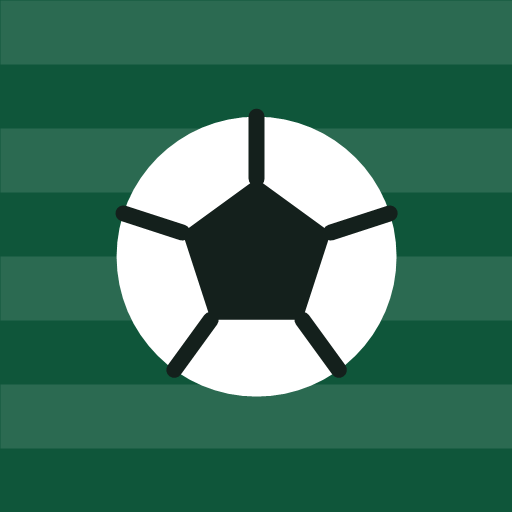
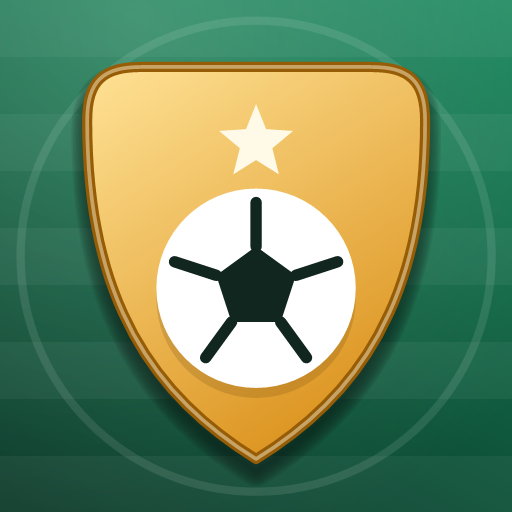
حدّث بطل: شعار الدرع، شاشات إقلاع، وتلميع الواجهة

diff --git a/batal/index.html b/batal/index.html
@@ -10,7 +10,18 @@
 <meta name="apple-mobile-web-app-status-bar-style" content="black-translucent">
 <meta name="apple-mobile-web-app-title" content="بطل">
 <link rel="manifest" href="manifest.json">
-<link rel="apple-touch-icon" href="icon.png">
+<link rel="icon" type="image/png" sizes="512x512" href="icon-512.png">
+<link rel="icon" type="image/png" sizes="192x192" href="icon-192.png">
+<link rel="apple-touch-icon" sizes="180x180" href="icon-180.png">
+<!-- شاشة إقلاع للآيفون: بدل الوميض الأبيض يظهر شعار التطبيق -->
+<link rel="apple-touch-startup-image" href="splash-1290x2796.png" media="(device-width:430px) and (device-height:932px) and (-webkit-device-pixel-ratio:3)">
+<link rel="apple-touch-startup-image" href="splash-1179x2556.png" media="(device-width:393px) and (device-height:852px) and (-webkit-device-pixel-ratio:3)">
+<link rel="apple-touch-startup-image" href="splash-1284x2778.png" media="(device-width:428px) and (device-height:926px) and (-webkit-device-pixel-ratio:3)">
+<link rel="apple-touch-startup-image" href="splash-1170x2532.png" media="(device-width:390px) and (device-height:844px) and (-webkit-device-pixel-ratio:3)">
+<link rel="apple-touch-startup-image" href="splash-1125x2436.png" media="(device-width:375px) and (device-height:812px) and (-webkit-device-pixel-ratio:3)">
+<link rel="apple-touch-startup-image" href="splash-1242x2688.png" media="(device-width:414px) and (device-height:896px) and (-webkit-device-pixel-ratio:3)">
+<link rel="apple-touch-startup-image" href="splash-828x1792.png"  media="(device-width:414px) and (device-height:896px) and (-webkit-device-pixel-ratio:2)">
+<link rel="apple-touch-startup-image" href="splash-750x1334.png"  media="(device-width:375px) and (device-height:667px) and (-webkit-device-pixel-ratio:2)">
 <style>
 :root{
   --pitch:#0F563A; --pitch-2:#14724D; --pitch-ink:#0A3626;
@@ -30,9 +41,36 @@ body{
   font-family:"SF Arabic","Noto Kufi Arabic","Segoe UI",Tahoma,system-ui,sans-serif;
   font-size:16px; line-height:1.6;
   padding-bottom:calc(76px + env(safe-area-inset-bottom));
-  overscroll-behavior-y:none;
+  overscroll-behavior:none;
+  /* إحساس التطبيق لا الصفحة: لا تحديد نص، ولا قائمة ضغط مطوّل، ولا تكبير مزدوج */
+  -webkit-user-select:none; user-select:none;
+  -webkit-touch-callout:none;
+  touch-action:manipulation;
 }
+/* النص الذي قد تحتاج نسخه يبقى قابلًا للتحديد */
+input,textarea,.selectable{-webkit-user-select:text; user-select:text;}
 button,input,select,textarea{font-family:inherit; font-size:inherit; color:inherit;}
+button{touch-action:manipulation;}
+
+/* أثناء الجلسة يعلو الشريط العائم فوق المحتوى، فنزيد هامش الأسفل */
+body.has-timer{padding-bottom:calc(126px + env(safe-area-inset-bottom));}
+
+/* شاشة الإقلاع داخل التطبيق — تمنع وميض الصفحة البيضاء */
+#splash{
+  position:fixed; inset:0; z-index:200; display:grid; place-items:center;
+  background:linear-gradient(160deg,#19855C,#083424);
+  transition:opacity .45s ease, visibility .45s;
+}
+#splash.gone{opacity:0; visibility:hidden;}
+#splash img{width:132px; height:132px; border-radius:30px; box-shadow:0 14px 40px rgba(0,0,0,.34);
+  animation:rise .55s cubic-bezier(.2,.9,.3,1.2);}
+#splash b{display:block; margin-top:14px; color:#fff; font-size:20px; letter-spacing:.5px; opacity:.95;}
+#splash small{display:block; color:rgba(255,255,255,.6); font-size:12.5px; margin-top:2px;}
+@keyframes rise{from{transform:translateY(16px) scale(.86); opacity:0;} to{transform:none; opacity:1;}}
+
+/* انتقال بين التبويبات يعطي إحساس التنقل داخل تطبيق */
+@keyframes slidein{from{opacity:0; transform:translateY(9px);} to{opacity:1; transform:none;}}
+.pageanim{animation:slidein .22s ease-out;}
 .wrap{max-width:560px; margin:0 auto; padding:0 14px;}
 
 /* ---------- الترويسة ---------- */
@@ -100,9 +138,20 @@ button,input,select,textarea{font-family:inherit; font-size:inherit; color:inher
 }
 .task.done .pts{background:#DFF3E8; color:#146245; border-color:#BFE5D1;}
 
-.counter{display:flex; align-items:center; gap:8px; margin-top:9px;}
-.cups{display:flex; gap:5px; flex-wrap:wrap; flex:1;}
-.cup{width:24px; height:30px; border-radius:5px 5px 9px 9px; border:2px solid #CFE0F5; background:#fff;}
+/* بطاقة العدّاد تنزل في صفّين: العنوان فوق، والأكواب بعرض البطاقة تحته */
+.task.count{flex-direction:column; align-items:stretch; gap:0;}
+.task.count .trow{display:flex; align-items:center; gap:11px;}
+.counter{
+  display:flex; align-items:center; gap:8px; margin-top:11px;
+  border-top:1px dashed var(--line); padding-top:11px;
+}
+.cups{display:flex; gap:5px; flex:1; justify-content:center; min-width:0;}
+.cup{
+  flex:0 1 26px; height:32px; min-width:14px;
+  border-radius:5px 5px 9px 9px; border:2px solid #CFE0F5; background:#fff;
+  transition:background .18s, border-color .18s, transform .18s;
+}
+.cup.on{transform:translateY(-1px);}
 .cup.on{background:linear-gradient(180deg,#8FC3FA,#2C7BE5); border-color:#2C7BE5;}
 .rnd{width:38px;height:38px;border-radius:12px;border:1px solid var(--line);background:#fff;font-size:19px;font-weight:800;cursor:pointer;line-height:1;}
 .rnd:active{transform:scale(.92);}
@@ -168,9 +217,15 @@ button,input,select,textarea{font-family:inherit; font-size:inherit; color:inher
 .nav button{
   position:relative; flex:1; background:0; border:0; padding:5px 2px; cursor:pointer; color:var(--muted);
   font-size:10.5px; font-weight:700; display:grid; gap:1px; justify-items:center;
+  transition:color .18s;
 }
-.nav button i{font-style:normal; font-size:20px; line-height:1.25;}
+.nav button i{
+  font-style:normal; font-size:19px; line-height:1; padding:5px 15px; border-radius:99px;
+  transition:background .2s, transform .2s;
+}
 .nav button.on{color:var(--pitch);}
+.nav button.on i{background:#E4F1EA; transform:translateY(-1px);}
+.nav button:active i{transform:scale(.9);}
 .nav button .badge{
   position:absolute; transform:translate(-16px,-4px); background:var(--rose); color:#fff;
   border-radius:99px; font-size:10px; padding:0 5px; font-weight:800;
@@ -246,6 +301,13 @@ button,input,select,textarea{font-family:inherit; font-size:inherit; color:inher
 </style>
 </head>
 <body>
+<div id="splash">
+  <div style="text-align:center;">
+    <img src="icon-512.png" alt="">
+    <b>بطل</b>
+    <small>مهامي · نقاطي · ملعبي</small>
+  </div>
+</div>
 <div id="app"></div>
 <div id="timerbar" class="timerbar"></div>
 <div id="modal"></div>
@@ -256,7 +318,7 @@ button,input,select,textarea{font-family:inherit; font-size:inherit; color:inher
    يتزامن بين الجوالين عبر GitHub Gist، نفس طريقة الربط المستخدمة في دفتري.
    ========================================================================= */
 
-const APP_VERSION   = 'v2';
+const APP_VERSION   = 'v3';
 const CLOUD_FILE    = 'batal-data.json';
 const LS_STATE      = 'batalState';
 const LS_CLOUD      = 'batalCloudCfg';
@@ -909,8 +971,18 @@ function render(){
   prune();
   const app = $('#app');
   if(!role){ app.innerHTML = roleGate(); $('#timerbar').innerHTML = ''; return; }
-  app.innerHTML = hero() + '<div class="wrap">' + (mode === 'parent' ? parentBody() : childBody()) + '</div>' + nav();
+  /* الانتقال يظهر عند تبديل الشاشة فقط — لو ركض مع كل ضغطة صارت القائمة ترفّ */
+  const moved = (tab + '|' + mode) !== lastScreen;
+  lastScreen = tab + '|' + mode;
+  app.innerHTML = hero() + '<div class="wrap' + (moved ? ' pageanim' : '') + '">'
+    + (mode === 'parent' ? parentBody() : childBody()) + '</div>' + nav();
   paintSync(); paintTimer();
+}
+let lastScreen = '';
+/* الشاشة الافتتاحية تختفي بعد أول رسم فعلي، لا بمؤقت أعمى */
+function hideSplash(){
+  const s = $('#splash'); if(!s || s.classList.contains('gone')) return;
+  setTimeout(() => { s.classList.add('gone'); setTimeout(() => s.remove(), 600); }, 420);
 }
 
 /* أول تشغيل على أي جهاز: هذا جوال مين؟ */
@@ -935,6 +1007,7 @@ function fmtClock(ms){
 }
 function paintTimer(){
   const bar = $('#timerbar'); if(!bar) return;
+  document.body.classList.toggle('has-timer', !!(role && sessionActive()));
   if(!role || !sessionActive()){ bar.innerHTML = ''; bar.className = 'timerbar'; return; }
   const left = sessionLeftMs();
   bar.className = 'timerbar' + (left <= 0 ? ' over' : '');
@@ -1027,18 +1100,20 @@ function taskCard(day, t){
 
   if(t.kind === 'count'){
     const cups = Array.from({length:t.target||1}, (_,i) => `<span class="cup ${i < st.n ? 'on':''}"></span>`).join('');
-    return `<div class="task ${cls}">
-      <div class="tick" style="cursor:default;">${tickIcon}</div>
-      <div class="t-body">
-        <b>${esc(t.title)}</b>
-        <small>${st.n} من ${t.target} أكواب${t.note?' · '+esc(t.note):''}</small>
-        <div class="counter">
-          <button class="rnd" data-water="${t.id}" data-dir="-1">−</button>
-          <div class="cups">${cups}</div>
-          <button class="rnd" data-water="${t.id}" data-dir="1">+</button>
+    return `<div class="task count ${cls}">
+      <div class="trow">
+        <div class="tick" style="cursor:default;">${tickIcon}</div>
+        <div class="t-body">
+          <b>${esc(t.title)}</b>
+          <small>${st.n} من ${t.target} أكواب${st.done && !st.ok ? ' · بانتظار تأكيد أمك' : (t.note ? ' · ' + esc(t.note) : '')}</small>
         </div>
+        <span class="pts">${st.pts||0}/${t.pts*(t.target||1)}</span>
       </div>
-      <span class="pts">${st.pts||0}/${t.pts*(t.target||1)}</span>
+      <div class="counter">
+        <button class="rnd" data-water="${t.id}" data-dir="-1" aria-label="ناقص كوب">−</button>
+        <div class="cups">${cups}</div>
+        <button class="rnd" data-water="${t.id}" data-dir="1" aria-label="زائد كوب">+</button>
+      </div>
     </div>`;
   }
   return `<div class="task ${cls}">
@@ -1715,6 +1790,7 @@ function recalcTaskPoints(){
    الإقلاع
    ===================================================================== */
 (async function boot(){
+  setTimeout(hideSplash, 3500);          /* شبكة أمان: الشاشة الافتتاحية ما تعلق أبدًا */
   loadCloud();
   loadRole();
   loadLocal();
@@ -1722,6 +1798,7 @@ function recalcTaskPoints(){
   tab = mode === 'parent' ? 'inbox' : 'today';
   sweepBonuses();
   render();
+  hideSplash();
   if(cloud.linked){ await cloudPull(); checkAlarms(); render(); if(state._pendingSync) cloudPush(); }
   startAutoSync();
   scheduleAlarms();

diff --git a/batal/sw.js b/batal/sw.js
@@ -1,6 +1,6 @@
 /* خدمة العمل بدون إنترنت — نفس أسلوب دفتري.
    ارفعي SW_VERSION لما تبين كل الأجهزة المفتوحة تسحب نسخة جديدة من index.html. */
-const SW_VERSION = 'v2';
+const SW_VERSION = 'v3';
 const CACHE = 'batal-' + SW_VERSION;
 
 self.addEventListener('install', e => {
